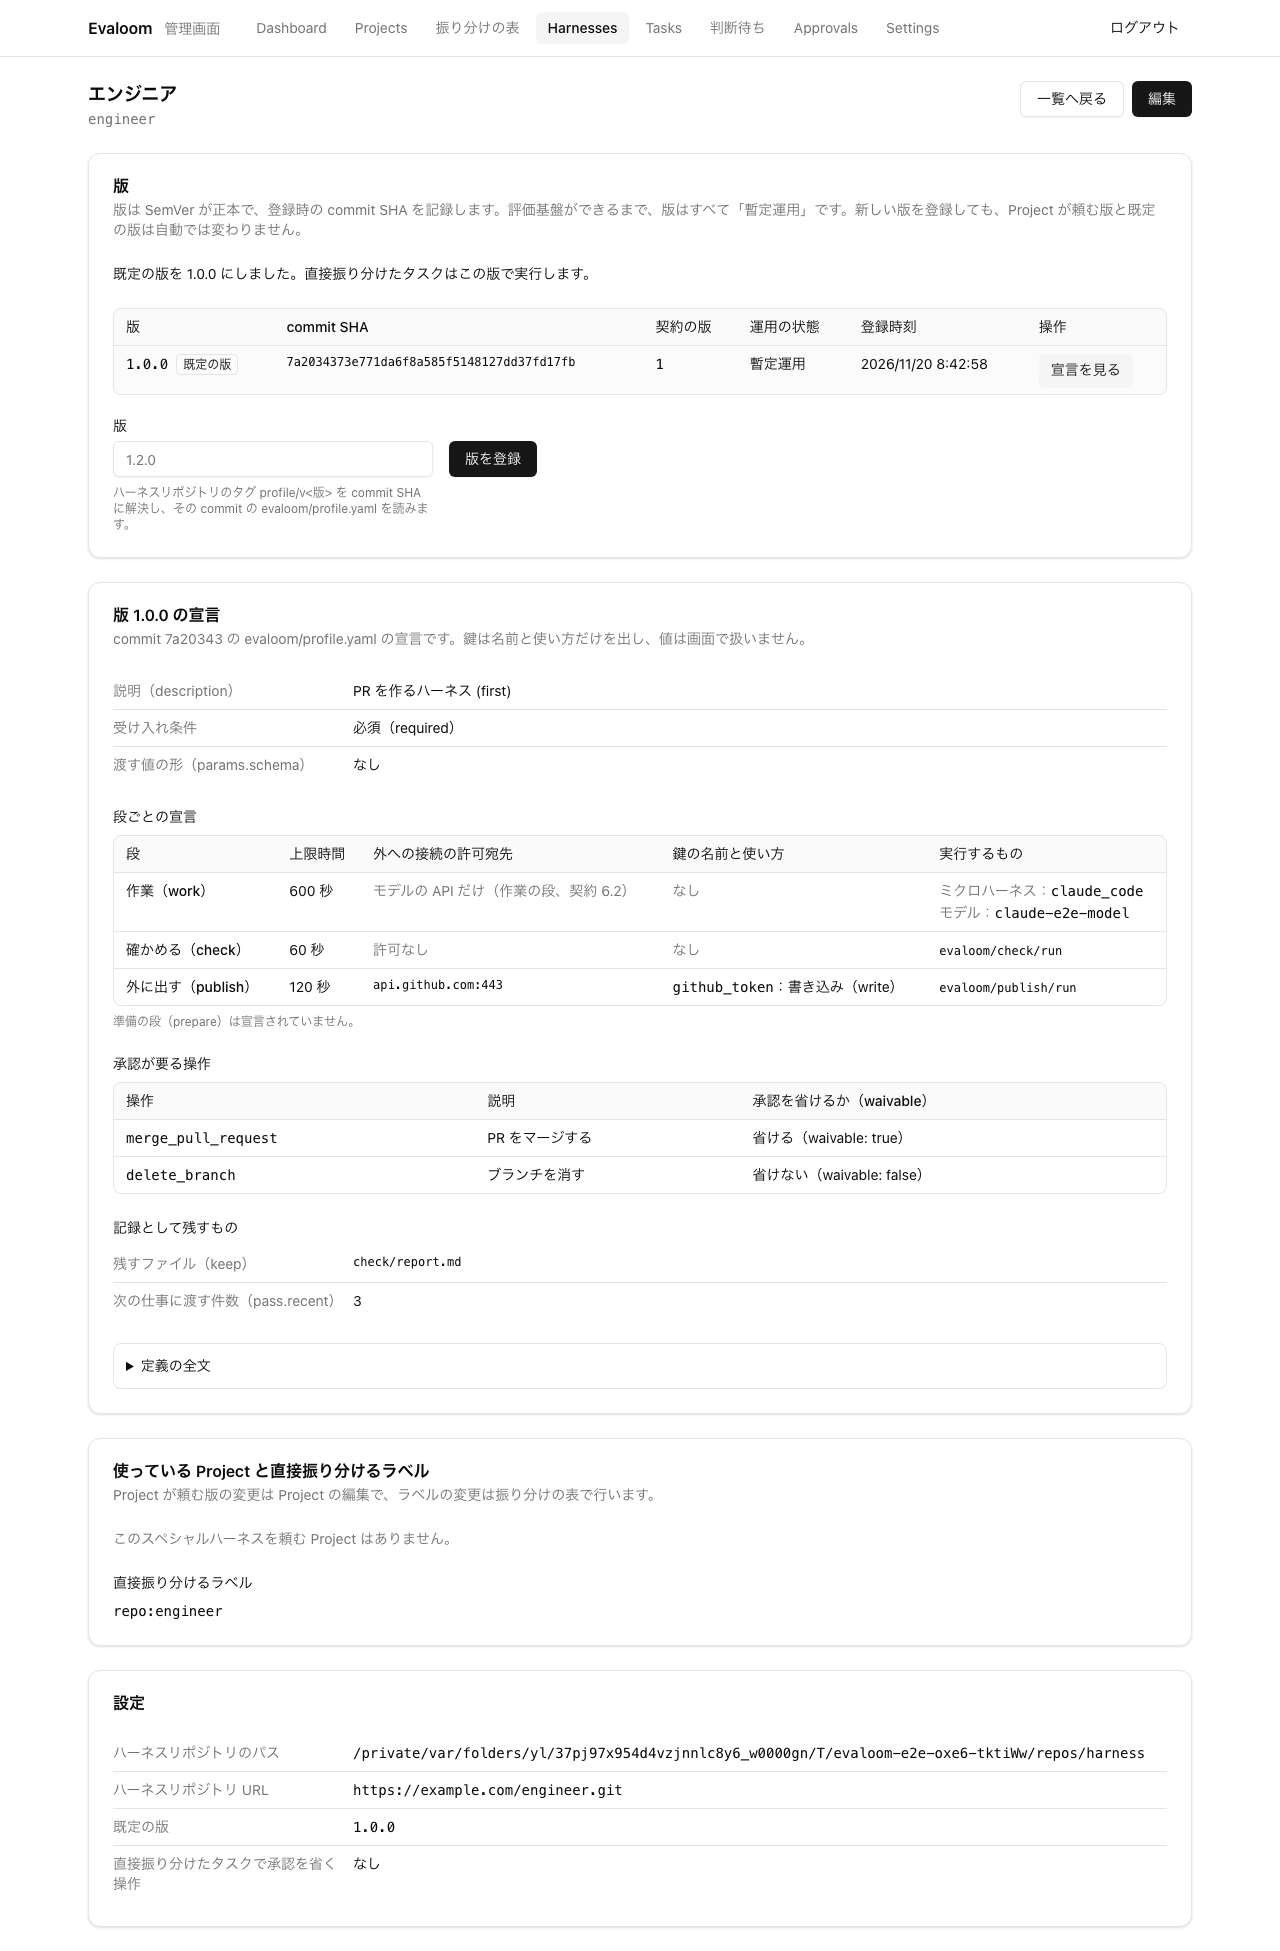
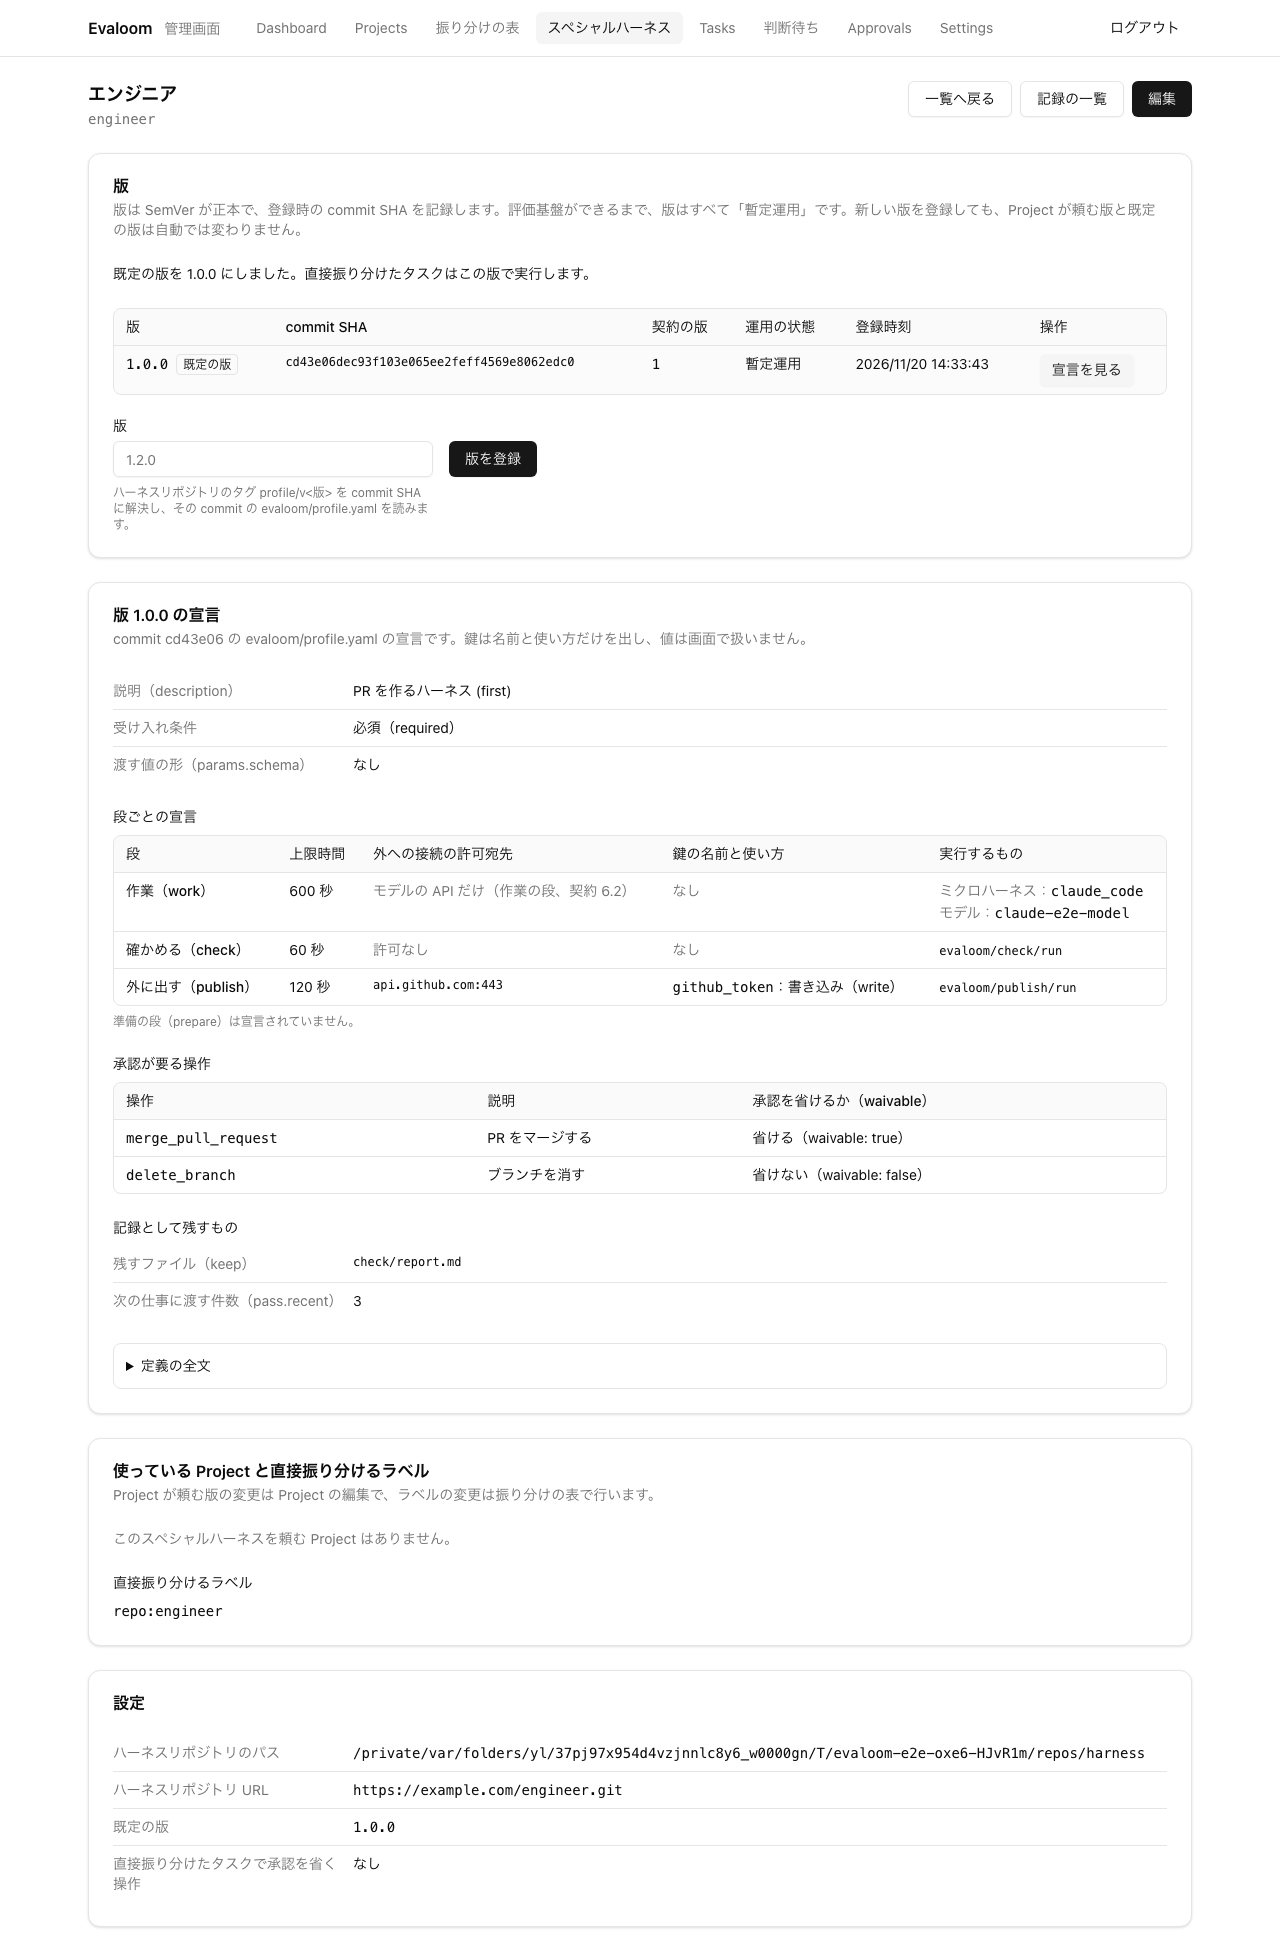
feat(frontend): evaloom-5n2 画面の Harness 表記をスペシャルハーネスに揃える
ナビ、一覧の題・列名・ボタン・空表示、登録・編集の見出しと項目名（スペシャルハーネス ID）、
default_harness_missing の文言を仕様 13 の 3.2・3.7 の表記に合わせた。
型名・変数名・API パス・URL は変えていない。単体テストと E2E の期待値を新表記に直した。

diff --git a/frontend/src/pages/harnesses/harness-form-page.tsx b/frontend/src/pages/harnesses/harness-form-page.tsx
@@ -96,12 +96,12 @@ function HarnessForm({ harness, profiles = [], onReload }: FormProps) {
     })
 
   return (
-    <form className="grid gap-6" noValidate onSubmit={handleSubmit} aria-label={create ? 'Harness の登録' : 'Harness の編集'}>
+    <form className="grid gap-6" noValidate onSubmit={handleSubmit} aria-label={create ? 'スペシャルハーネスの登録' : 'スペシャルハーネスの編集'}>
       <ApiErrorAlert error={error} unmatchedDetails={unmatched} onReload={reload} fieldLabels={HARNESS_REPOSITORY_LABELS} />
 
       <Card>
         <CardHeader>
-          <CardTitle>Harness</CardTitle>
+          <CardTitle>スペシャルハーネス</CardTitle>
           <CardDescription>
             登録時に、パスが Git リポジトリのルートであること、origin がハーネスリポジトリ URL と一致することを確かめます。Profile
             の版は、登録後に詳細画面から登録します。
@@ -232,7 +232,7 @@ function HarnessForm({ harness, profiles = [], onReload }: FormProps) {
 export function HarnessNewPage() {
   return (
     <div className="grid gap-6">
-      <PageTitle title="Harness の登録" />
+      <PageTitle title="スペシャルハーネスの登録" />
       <HarnessForm />
     </div>
   )
@@ -249,7 +249,7 @@ export function HarnessEditPage({ id }: { id: string }) {
   }
   return (
     <div className="grid gap-6">
-      <PageTitle title="Harness の編集" subtitle={id} />
+      <PageTitle title="スペシャルハーネスの編集" subtitle={id} />
       {error ? <ApiErrorAlert error={error} /> : null}
       {harness.data && !harness.loading && profiles.data ? (
         // 読み直したら入力欄を最新の値で作り直す。

diff --git a/frontend/src/pages/harnesses/harness-list-page.tsx b/frontend/src/pages/harnesses/harness-list-page.tsx
@@ -39,10 +39,10 @@ export function HarnessListPage() {
   return (
     <div className="grid gap-6">
       <PageTitle
-        title="Harnesses"
+        title="スペシャルハーネス"
         actions={
           <Button asChild>
-            <Link to={HARNESS_NEW_PATH}>Harness を登録</Link>
+            <Link to={HARNESS_NEW_PATH}>スペシャルハーネスを登録</Link>
           </Button>
         }
       />
@@ -52,17 +52,17 @@ export function HarnessListPage() {
       ) : harnesses.data.length === 0 ? (
         <Card>
           <CardContent className="text-muted-foreground text-sm">
-            登録済みの Harness はありません。「Harness を登録」から追加してください。
+            登録済みのスペシャルハーネスはありません。「スペシャルハーネスを登録」から追加してください。
           </CardContent>
         </Card>
       ) : (
         <div className="overflow-x-auto rounded-xl border">
           <table className="w-full text-sm">
-            <caption className="sr-only">登録済み Harness</caption>
+            <caption className="sr-only">登録済みスペシャルハーネス</caption>
             <thead className="bg-muted/50 text-left">
               <tr>
                 <th scope="col" className="px-4 py-2 font-medium whitespace-nowrap">
-                  Harness
+                  スペシャルハーネス
                 </th>
                 <th scope="col" className="px-4 py-2 font-medium whitespace-nowrap">
                   既定の版

diff --git a/frontend/src/api/errors.ts b/frontend/src/api/errors.ts
@@ -35,7 +35,7 @@ const REASON_LABELS: Record<string, string> = {
   default_profile_missing: 'このスペシャルハーネスには既定の版がありません。スペシャルハーネスの詳細画面で既定の版を設定してください',
   // 04 3.1・13 3.6: 振り分け先は Project かスペシャルハーネスのどちらか一方（400）
   exactly_one_destination: 'Project かスペシャルハーネスのどちらか一方を選んでください',
-  default_harness_missing: '既定の役割に Harness が割り当てられていません。プロジェクトの詳細画面で割り当ててください',
+  default_harness_missing: '既定の役割にスペシャルハーネスが割り当てられていません。プロジェクトの詳細画面で割り当ててください',
   // 15-linear-intake 3.8: UNIQUE(linear_team_id, linear_routing_label)（409、backend/internal/api/projects.md）
   duplicate: 'ほかのプロジェクトに同じ Linear Team ID と実行先ラベルの組が登録されています',
 }

diff --git a/frontend/e2e/evaloom-oxe.6.spec.ts b/frontend/e2e/evaloom-oxe.6.spec.ts
@@ -139,9 +139,9 @@ async function registerVersion(page: Page, version: string) {
 test('スペシャルハーネスを登録し、版の登録・409・宣言の表示・既定の版の設定ができる', async ({ page, server }) => {
   // 登録
   await page.goto('/harnesses')
-  await expect(page.getByText('登録済みの Harness はありません。')).toBeVisible()
-  await page.getByRole('link', { name: 'Harness を登録' }).click()
-  await page.getByLabel('Harness ID').fill(HARNESS)
+  await expect(page.getByText('登録済みのスペシャルハーネスはありません。')).toBeVisible()
+  await page.getByRole('link', { name: 'スペシャルハーネスを登録' }).click()
+  await page.getByLabel('スペシャルハーネス ID').fill(HARNESS)
   await page.getByLabel('名称').fill(HARNESS_NAME)
   await page.getByLabel('ハーネスリポジトリのパス').fill(server.harness.path)
   await page.getByLabel('ハーネスリポジトリ URL').fill('https://example.com/engineer.git')

diff --git a/frontend/src/pages/harnesses/harnesses.test.tsx b/frontend/src/pages/harnesses/harnesses.test.tsx
@@ -51,9 +51,9 @@ function api(harness: Harness, onPatch?: (r: Recorded) => Response) {
 }
 afterEach(() => window.history.pushState(null, '', '/'))
 
-it('Harness はリポジトリの情報だけを登録する', async () => {
+it('スペシャルハーネスはリポジトリの情報だけを登録する', async () => {
   const fake = renderAt('/harnesses/_new', (r) => (r.method === 'POST' ? json(201, HARNESS) : api(HARNESS)(r)))
-  await userEvent.type(await screen.findByLabelText('Harness ID'), 'engineer')
+  await userEvent.type(await screen.findByLabelText('スペシャルハーネス ID'), 'engineer')
   await userEvent.type(screen.getByLabelText('名称'), 'Engineer')
   await userEvent.type(screen.getByLabelText('ハーネスリポジトリのパス'), '/repos/engineer')
   await userEvent.type(screen.getByLabelText('ハーネスリポジトリ URL'), 'https://example.invalid/h.git')

diff --git a/frontend/src/App.tsx b/frontend/src/App.tsx
@@ -37,7 +37,7 @@ const NAV = [
   { to: '/', label: 'Dashboard' },
   { to: '/projects', label: 'Projects' },
   { to: ROUTES_PATH, label: '振り分けの表' },
-  { to: '/harnesses', label: 'Harnesses' },
+  { to: '/harnesses', label: 'スペシャルハーネス' },
   { to: TASKS_PATH, label: 'Tasks' },
   { to: DECISIONS_PATH, label: '判断待ち' },
   { to: APPROVALS_PATH, label: 'Approvals' },

diff --git a/frontend/src/pages/harnesses/labels.ts b/frontend/src/pages/harnesses/labels.ts
@@ -11,7 +11,7 @@ export const harnessPath = (id: string) => `/harnesses/${encodeURIComponent(id)}
 
 // Harness の各項目の表示名（13 3.2「Harness 登録・編集」、02-data-model 3.2 harnesses）。
 export const HARNESS_LABELS = {
-  id: 'Harness ID',
+  id: 'スペシャルハーネス ID',
   name: '名称',
   specialty: '専門分野',
   adapter: 'Adapter',
